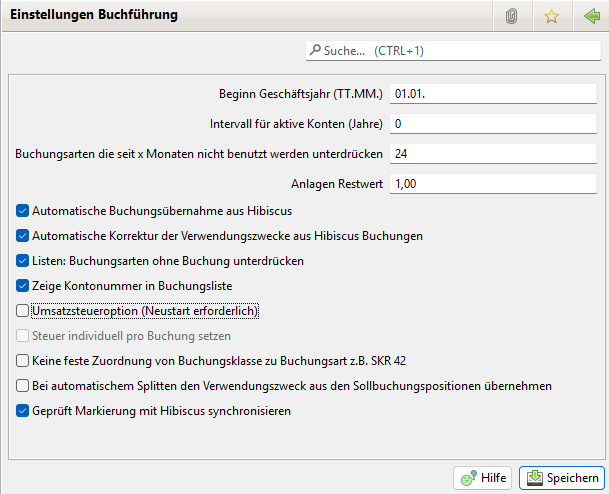
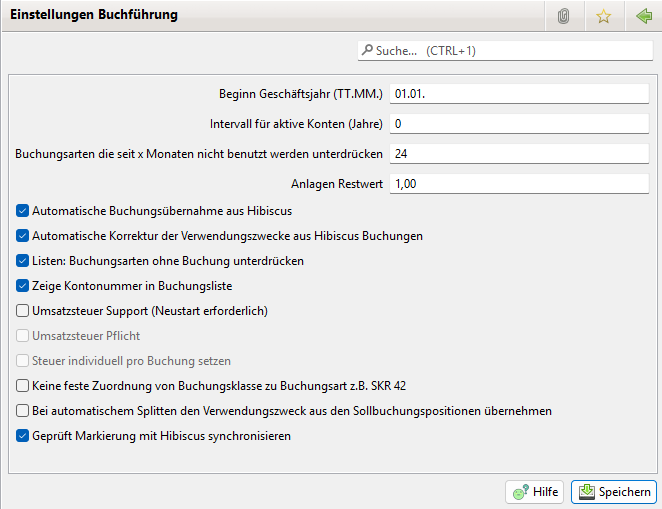
Update für Steuer etc.

Changed region(s): [[0.0, 0.0, 1.0, 0.9109], [0.7488, 0.9413, 0.9984, 1.0]]

diff --git a/v3.1.x/administration/einstellungen/buchfuehrung.md b/v3.1.x/administration/einstellungen/buchfuehrung.md
@@ -4,26 +4,23 @@
 
 Hier sind folgende Eingaben nötig bzw. möglich:
 
-Beginn des Geschäftsjahres in der Form TT.MM.
-
-Intervall für aktive Konten. Aktive Konten sind die, deren Auflösung um mehr als die ausgewählte Anzahl von Jahren zurück liegt. Diese können im Kontoauswahl Dialog ausgeblendet werden.
-
-Buchungsarten die seit x Monaten nicht benutzt werden unterdrücken in der Form Monate.
-
-Automatische Übernahme von Buchungen aus Hibiscus \(Standard: aktiviert\).
-
-Automatische Korrektur der Verwendungszwecke aus Hibiscus Buchungen.
-
-Unterdrückung nicht gebuchter Buchungsarten in Listen/Auswertungen \(Standard: nicht aktiviert\).
-
-Zeige Kontonummer in der Buchungsliste.
-
-Umsatzsteueroption (Neustart erforderlich)
-
-Auswahl ob die Steuer über die Buchungsart gesetzt wird oder individuell per Buchung.
-
-Auswahl ob eine feste Zuordnung zwischen Buchungsart und Buchungsklasse existiert oder nicht. Die feste Zuordnung sollte nur bei einem Wechsel des Kontenrahmen passieren und dann beim Wechsel des Geschäftsjahres. Sie auch [Buchungsart](../admbuchf/buchungsart.md).
-
-Beim automatischen Splitten den Verwendungszweck aus den Sollbuchungspositionen übernehmen.
-
-Geprüft Markierung mit Hibiskus synchronisieren.
+* Beginn des Geschäftsjahres in der Form TT.MM.
+* Intervall für aktive Konten. Aktive Konten sind die, deren Auflösung um mehr als die ausgewählte Anzahl von Jahren zurück liegt. Diese können im Kontoauswahl Dialog ausgeblendet werden
+* Buchungsarten die seit x Monaten nicht benutzt werden unterdrücken in der Form Monate
+* Automatische Übernahme von Buchungen aus Hibiscus \(Standard: aktiviert\)
+* Automatische Korrektur der Verwendungszwecke aus Hibiscus Buchungen
+* Unterdrückung nicht gebuchter Buchungsarten in Listen/Auswertungen \(Standard: nicht aktiviert\)
+* Zeige Kontonummer in der Buchungsliste
+* Umsatzsteuer Support (Neustart erforderlich)  
+Diese Option aktiviert die Möglichkeit Steuer Daten einzugeben (siehe [Steuer](../admbuchf/steuer.md)) und eine Umsatzsteuer Voranmeldung (siehe [Umsatzsteuer Voranmeldung](../../buchf/umsatzsteuersaldo.md)) zu bekommen. Damit lassen sich in Buchungsarten bzw. Buchungen die Steuersätze hinterlegen und über die Umsatzsteuer Voranmeldung z.B. feststellen wie hoch die Umsatzsteuer pflichtigen Umsätze sind. In der Buchungsliste wird auch ein Netto Betrag ausgewiesen. Dieser hat aber noch keine Bedeutung solange die Option Umsatzsteuer Pflicht nicht aktiviert ist
+* Umsatzsteuer Pflicht  
+Über diese Option wird festgelegt, ob man als Verein Umsatzsteuer pflichtig ist. Diese Option ist nur verfügbar wenn auch Umsatzsteuer Support aktiviert ist. Ist diese Option aktiv wird die Steuer in den Salden Reports wie z.B. dem Buchungsklassensaldo explizit ausgewiesen. Es werden also die Beträge intern in die Nettobeträge und Steuer Beträge automatisch gesplittet. Auch werden die Steuern in den Rechnungen ausgewiesen.    
+Ein manuelles splitten der Buchungen ist ab der Version 3.1.0 nicht mehr nötig!  
+Durch die Aktivierung von Umsatzsteuer Support wird also nur die Möglichkeit geschaffen schon Steuer Daten zu setzen auch wenn man noch nicht Umsatzsteuer pflichtig ist. So kann man über die Umsatzsteuer Voranmeldung feststellen ob man wegen der Umsätze schon Umsatzsteuer pflichtig wird. Auch kann es sein, dass man schon Umsatzsteuer pflichtig war und es momentan nicht mehr ist. Die Salden und die Rechnungen werden ohne Steuer Berücksichtigung generiert.  
+Erst durch Aktivieren des Umsatzsteuer Pflicht Schalters wird in den Auswertungen, also Salden Reports oder Rechnung die Steuer berücksichtigt.  
+Man muss aber berücksichtigen, dass dieses nur für neue Buchungen gilt bei denen eine Buchung nicht über eine Splittbuchung in eine Netto Buchung und Steuer Buchung gesplittet wurde. Sollten explizite Buchungen mit eine Steuer Buchungsart existieren werden diese weiter in den Salden Reports ausgegeben
+* Auswahl ob die Steuer über die Buchungsart gesetzt wird oder individuell per Buchung.  
+Diese Option ist nur verfügbar wenn auch Umsatzsteuer Support aktiviert ist
+* Auswahl ob eine feste Zuordnung zwischen Buchungsart und Buchungsklasse existiert oder nicht. Die feste Zuordnung sollte nur bei einem Wechsel des Kontenrahmen passieren und dann beim Wechsel des Geschäftsjahres. Sie auch [Buchungsart](../admbuchf/buchungsart.md)
+* Beim automatischen Splitten den Verwendungszweck aus den Sollbuchungspositionen übernehmen.
+* Geprüft Markierung mit Hibiskus synchronisieren

diff --git a/v3.1.x/notes.md b/v3.1.x/notes.md
@@ -22,6 +22,16 @@ Dieses ist in ab der Version 3.1.0 nicht mehr nötig.
 * Ähnlich wie bei der Zuordnung der Buchungsklasse zur Buchung, entweder implizit über die Buchungsart oder als Parameter in der Buchung, ist das auch mit der Zuordnung der Steuer. Unter Administration->Einstellungen->Buchführung lässt sich einstellen ob die Steuer der Buchungsart entnommen werden soll oder ob sie individuell als Attribut in der Buchung gesetzt werden kann. In letzterem Fall erscheint das Attribut "Steuer" als Spalte in der Buchungsliste und als Parameter in der Buchung. Als weiteres kann in diesem Fall die Steuer in Zusatzbeiträgen und Beitragsgruppen gesetzt werden. Diese wird dann im Abrechnungslauf auf die erzeugten Buchungen übertragen
 * Bisher waren die Steuersätze fest in JVerein eingebaut. Ab Version 3.1.0 werden sie manuell angelegt. Siehe (siehe [Steuer](administration/admbuchf/steuer.md)). Wurden bisher bereits Steuern verwendet, so werden für diese automatisch bei der Migration auf die 3.1.0 Steuer Einträge erzeugt. Ansonsten müssen sie manuell angelegt werden
 
+In den Einstellungen zu Buchführung gibt es folgende Schalter:
+ * Umsatzsteuer Support (Neustart erforderlich)  
+Diese Option aktiviert die Möglichkeit Steuer Daten einzugeben (siehe [Steuer](../admbuchf/steuer.md)) und eine Umsatzsteuer Voranmeldung (siehe [Umsatzsteuer Voranmeldung](../../buchf/umsatzsteuersaldo.md)) zu bekommen. Damit lassen sich in Buchungsarten bzw. Buchungen die Steuersätze hinterlegen und über die Umsatzsteuer Voranmeldung z.B. feststellen wie hoch die Umsatzsteuer pflichtigen Umsätze sind. In der Buchungsliste wird auch ein Netto Betrag ausgewiesen. Dieser hat aber noch keine Bedeutung solange die Option Umsatzsteuer Pflicht nicht aktiviert ist
+* Umsatzsteuer Pflicht  
+Über diese Option wird festgelegt, ob man als Verein Umsatzsteuer pflichtig ist. Diese Option ist nur verfügbar wenn auch Umsatzsteuer Support aktiviert ist. Ist diese Option aktiv wird die Steuer in den Salden Reports wie z.B. dem Buchungsklassensaldo explizit ausgewiesen. Es werden also die Beträge intern in die Nettobeträge und Steuer Beträge automatisch gesplittet. Auch werden die Steuern in den Rechnungen ausgewiesen.    
+Durch die Aktivierung von Umsatzsteuer Support wird also nur die Möglichkeit geschaffen schon Steuer Daten zu setzen auch wenn man noch nicht Umsatzsteuer pflichtig ist. So kann man über die Umsatzsteuer Voranmeldung feststellen ob man wegen der Umsätze schon Umsatzsteuer pflichtig wird. Auch kann es sein, dass man schon Umsatzsteuer pflichtig war und es momentan nicht mehr ist. Die Salden und die Rechnungen werden ohne Steuer Berücksichtigung generiert.  
+Erst durch Aktivieren des Umsatzsteuer Pflicht Schalters wird in den Auswertungen, also Salden Reports oder Rechnung die Steuer berücksichtigt.  
+Man muss aber berücksichtigen, dass dieses nur für neue Buchungen gilt bei denen eine Buchung nicht über eine Splittbuchung in eine Netto Buchung und Steuer Buchung gesplittet wurde. Sollten explizite Buchungen mit eine Steuer Buchungsart existieren werden diese weiter in den Salden Reports ausgegeben
+* Auswahl ob die Steuer über die Buchungsart gesetzt wird oder individuell per Buchung.  
+Diese Option ist nur verfügbar wenn auch Umsatzsteuer Support aktiviert ist
 
 
 ### Mittelverwendung (ab Version 3.0.0)
@@ -121,6 +131,11 @@ Bei den Druck und Mail Views gibt es neu die folgenden Buttons:
 #### Differenzfilter mit Limit
 
 In den Filtern für Sollbuchungen und Kontoauszüge lässt sich ein Limit für die Differenz konfigurieren. Bei  Differenz Fehlbetrag werden nur Sollbuchungen bzw. Mitglieder ausgewählt bei denen der Fehlbetrag größer als das Limit ist. Bei Überzahlung nur wenn der über zahlte Betrag größer als das Limit ist.
+
+#### Zwei optionale Spalten in der Mitglieder Liste
+
+* Kontostand: Zeigt den aktuellen Stand des Mitgliedskontos
+* D: Zeigt ob für das Mitglied Dokumente hinterlegt sind
 
 ## Kleinere Korrekturen und Erweiterungen
 

diff --git a/v3.1.x/administration/einstellungen/spalten.md b/v3.1.x/administration/einstellungen/spalten.md
@@ -5,3 +5,20 @@
 Festlegung der Spalten, die in der Mitglieder Tabelle angezeigt werden sollen.
 
 In diesem Dialog werden auch benutzerdefinierte [Zusatzfelder](../mitglieder/felddefinition.md) angezeigt. Diese können ebenfalls für die Anzeige in der Mitgliederliste selektiert werden.
+
+In der Version 3.0.0 wurde eine optionale Spalten hinzu gefügt:
+
+* Status  
+Ist diese Spalte platziert, dann zeigt sie an ob der gespeicherte Datensatz des Mitglied konsistent ist, also ob die Daten des Mitglieds aktuell fehlerfrei gespeichert werden könnten.  
+Es empfiehlt sich mit jeder neuen Version diese Spalte einmal zu aktivieren und zu schauen ob alle Einträge gut sind. Danach kann man die Spalte wieder entfernen.  
+Der Grund warum es zu inkonsistenten Einträgen kommen kann ist wenn in einer neuen Version verbesserte Checks implementiert wurden. Ein Beispiel ist die Eingabe der IBAN bei Lastschriften. Die IBAN wurde früher nicht geprüft und man konnte hier auch Unsinn eingeben. Dies wurde beim Speichern nicht festgestellt. In den aktuellen Versionen wird dies aber beim speichern geprüft.  
+Über die Spalte könnte man problematische Mitglieder leicht feststellen ohne jedes Mitglied zu öffnen und dort neu zu speichern
+
+In der Version 3.1.0 sind zwei weiter optionale Spalten hinzu gefügt worden:
+
+* Kontostand  
+Ist diese Spalte gesetzt, wird für jedes Mitglied durch ein Icon angezeigt ob das Mitglied einen ausgeglichenen Kontostand hat oder eine Fehlbetrag. Zusätzlich wird der aktuelle Kontostand angezeigt.  
+PS: Wegen einem Problem des Graphik Systems werden die Inhalte nicht rechtsbündig angezeigt wenn nicht eine der in der Liste vorangegangenen Spalten aktiviert wurde, also z.B. die Mitgliedsnummer oder Externe Mitgliedsnummer.  
+Da hierbei beim Aufbau der Mitgliederliste für jedes Mitglied auf die Datenbank zugegriffen werden muss um den aktuellen Kontostand zu berechnen könnte es abhängig von der verwendeten Datenbank Struktur zu Performance Problemen kommen. Sollte dies der Fall sein, sollte man diese Spalte nicht aktivieren
+* D  
+Diese Spalte zeigt, wie bei Buchungen, an ob für das Mitglied ein Dokument hinterlegt ist und auch wie viele Dokumente

diff --git a/v3.1.x/buchf/buchungen.md b/v3.1.x/buchf/buchungen.md
@@ -13,6 +13,9 @@ Die im System gespeicherten Buchungen können nach folgenden Kriterien selektier
 * Enthaltener Text
 * Mitglied zugeordnet
 * Splitbuchungen: nur Split oder nur Hauptbuchungen
+* Mitglied Name
+* Nur geprüfte
+* Steuer (Dieser Filter ist nur verfügbar wenn "Steuer individuell pro Buchung setzen" in den Einstellungen aktiviert ist)
 
 In Der Buchungsliste bedeutet die Spalte "S" Splitbuchung, folgende Werte sind möglich "S" Slitbuchung, "H" Hautbuchung, "G" Gegenbuchung.
 
@@ -43,10 +46,11 @@ Folgende Menü Einträge sind vorhanden:
 * Löschen: Löscht die Buchung
 * Mitglied anzeigen: Für die selektierte Buchung wird das zugehörige Mitglied geöffnet, sofern der Buchung eine Sollbuchung zugeordnet wurde.
 * Neues Anlagenkonto: Für die selektierte Buchung wird ein Anlagenkonto erzeugt
-* Geldspendenbescheinigung: Erstellt eine Geldspendenbescheinigung für die Buchung
+* Geldspendenbescheinigung: Erstellt eine Geldspendenbescheinigung für die Buchung. Diese Option ist nur verfügbar wenn "Spendenbescheinigungen anzeigen" in den Einstellungen aktiviert ist
 * Buchungsart zuordnen: Es öffnet ein Dialog zur Zuordnung einer Buchungsart
+* Steuer zuordnen: Es öffnet ein Dialog zur Zuordnung einer Steuer. Diese Option ist nur verfügbar wenn "Steuer individuell pro Buchung setzen" in den Einstellungen aktiviert ist
 * Sollbuchung zuordnen: Es öffnet ein Dialog zur Zuordnung einer Sollbuchung (siehe unten)
-* Projekt zuordnen: Es öffnet ein Dialog zur Zuordnung eine Projekts
+* Projekt zuordnen: Es öffnet ein Dialog zur Zuordnung eine Projekts. Diese Option ist nur verfügbar wenn "Projekte anzeigen" in den Einstellungen aktiviert ist
 * Kontoauszug zuordnen: Es öffnet ein Dialog zur Zuordnung eines Kontoauszugs
 
 Buchungen können nur neu aufgenommen, geändert oder gelöscht werden, wenn sie nicht durch einen [Jahresabschluss](jahresabschluss.md) abgeschlossen wurden.

diff --git a/v3.1.x/buchf/umsatzsteuersaldo.md b/v3.1.x/buchf/umsatzsteuersaldo.md
@@ -3,7 +3,7 @@
 
 ### Aktivierung
 
-Zur Nutzung der Umsatzsteuer Voranmeldung ist die Option Umsatzsteuer unter Administration->Einstellungen->Buchführung zu aktivieren.
+Zur Nutzung der Umsatzsteuer Voranmeldung ist die Option Umsatzsteuer Support unter Administration->Einstellungen->Buchführung zu aktivieren.
 
 Anschließend sollte JVerein neu gestartet werden, damit der Menüpunkt "Umsatzsteuer Voranmeldung" zur Verfügung steht.
 

diff --git a/v3.1.x/administration/admbuchf/steuer.md b/v3.1.x/administration/admbuchf/steuer.md
@@ -1,6 +1,12 @@
 # Steuer
 
 
+### Aktivierung
+
+Zur Nutzung der Steuer ist die Option Umsatzsteuer Support unter Administration->Einstellungen->Buchführung zu aktivieren.
+
+Anschließend sollte JVerein neu gestartet werden, damit der Menüpunkt "Steuer" zur Verfügung steht.
+
 ## Allgemeines
 
 Über Steuern können verschiedene Steuersätze definiert werden.
